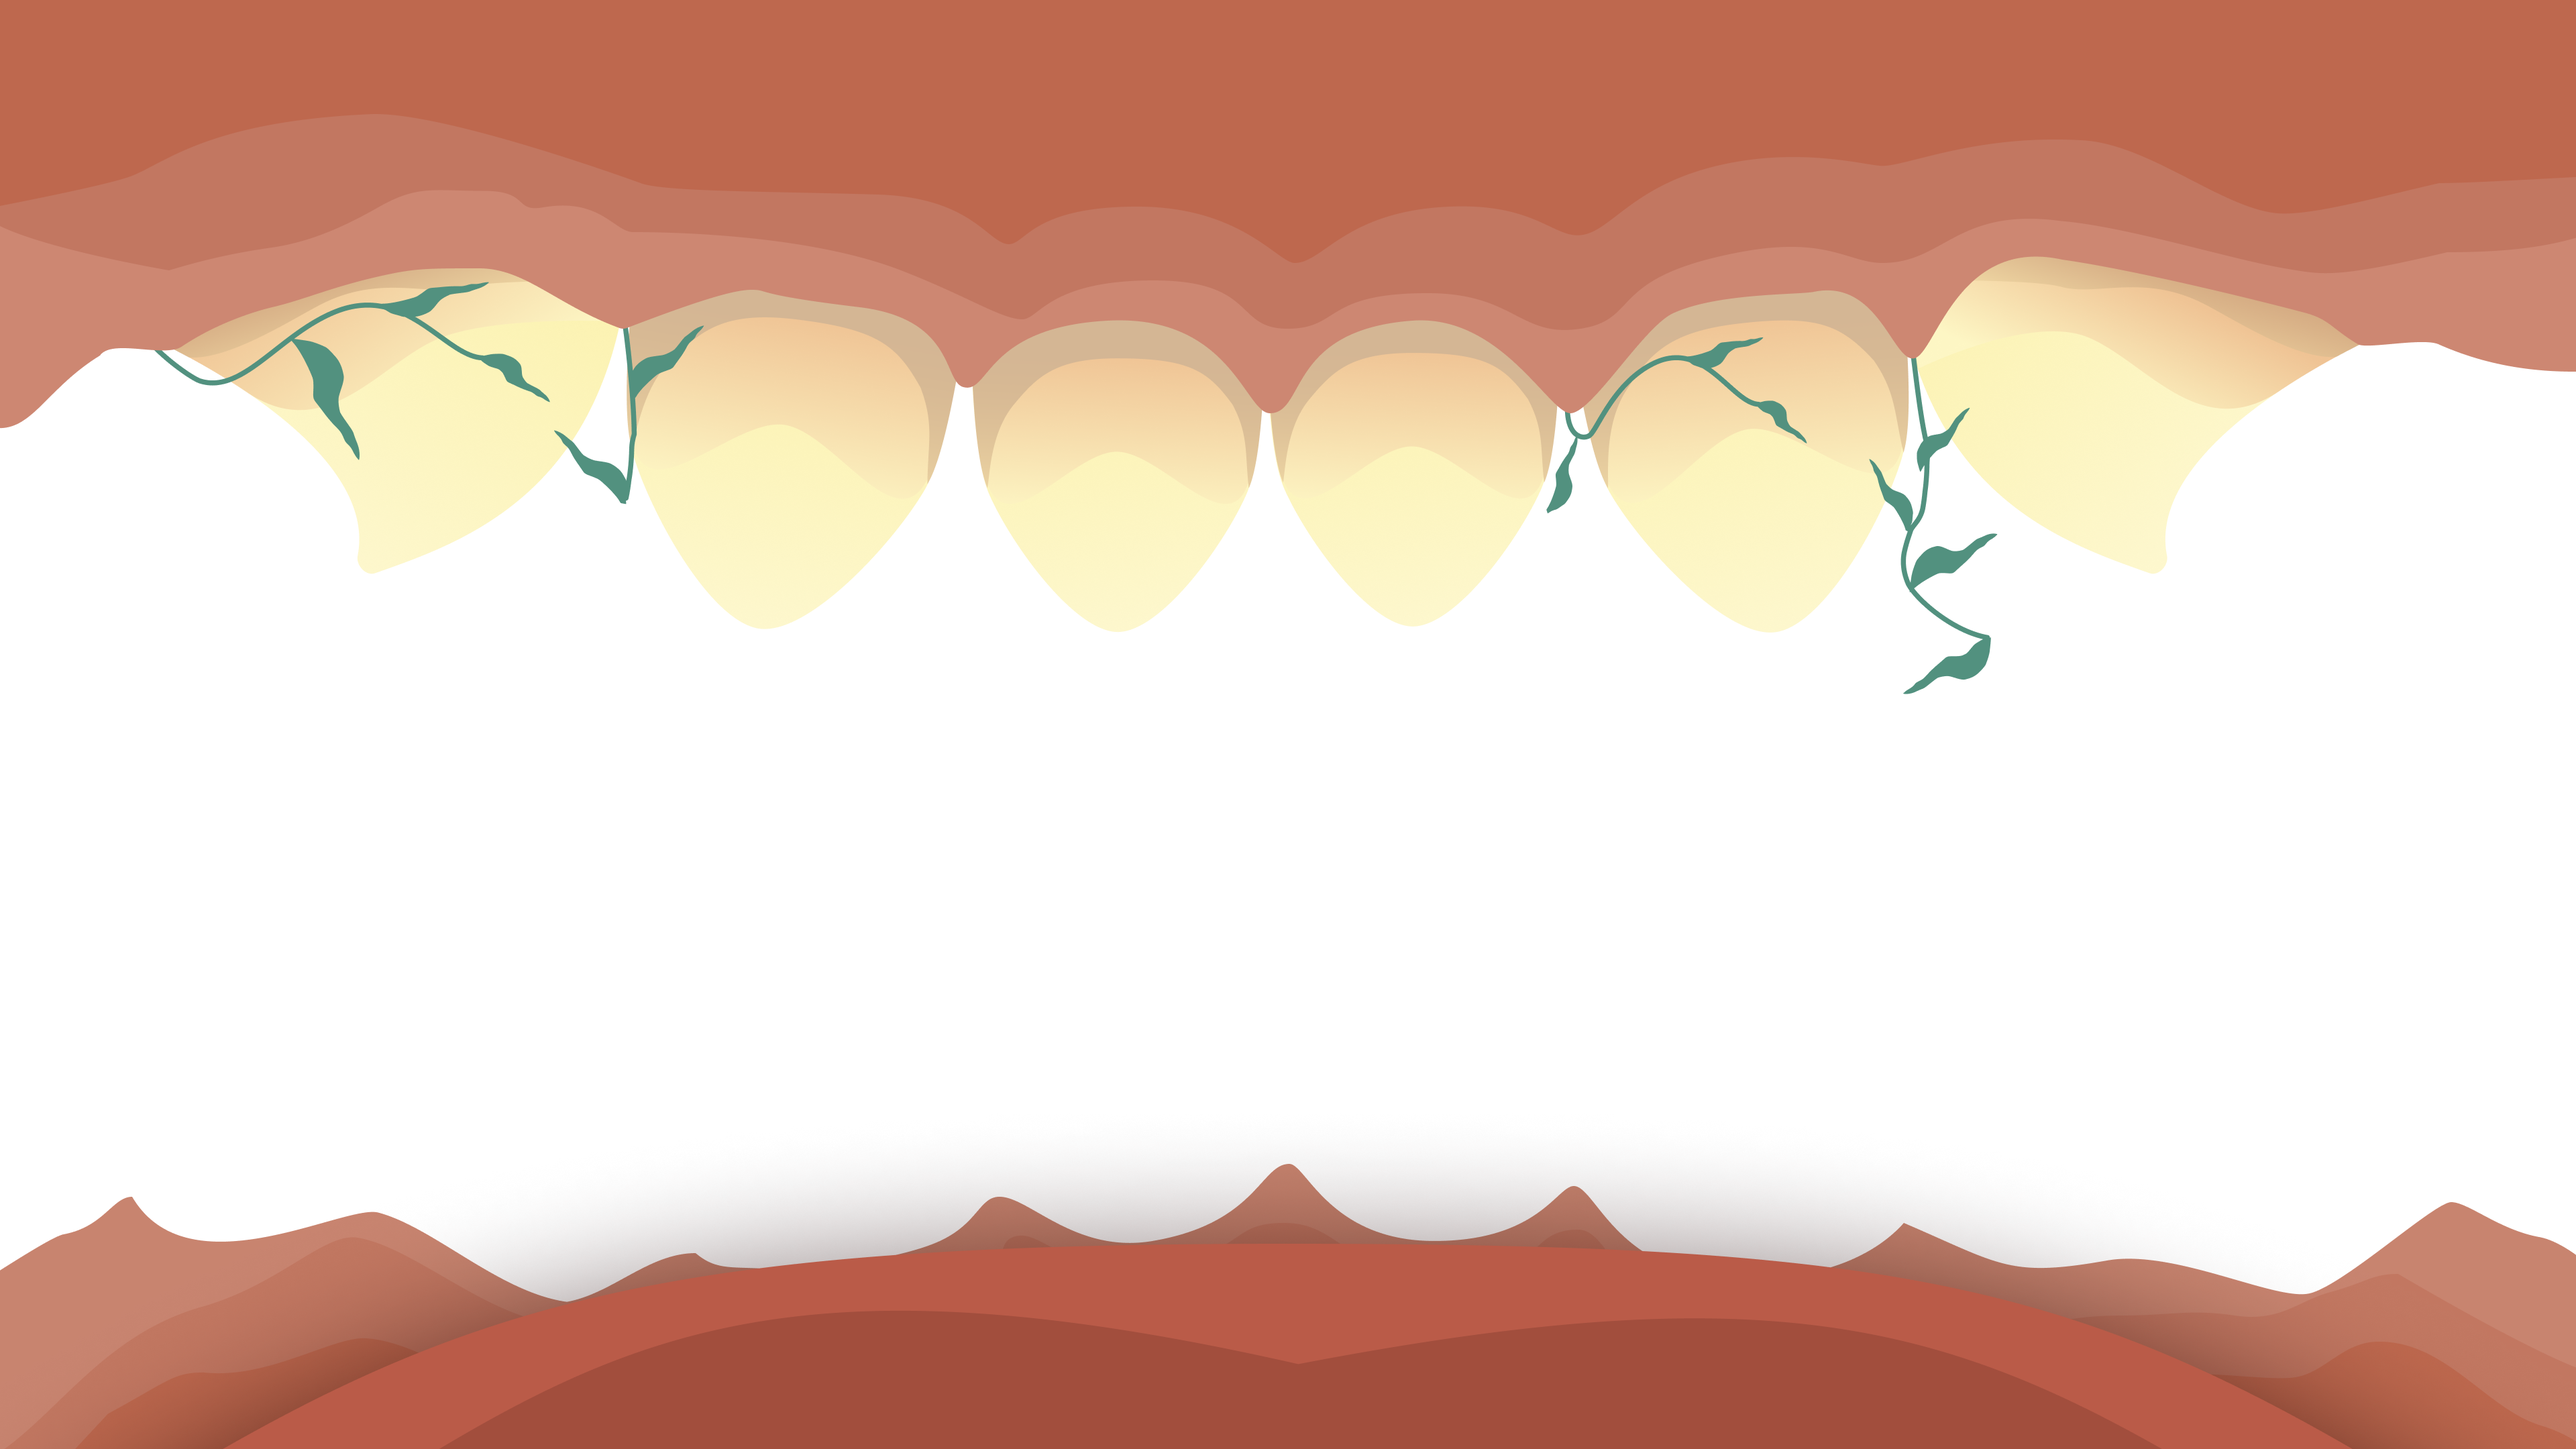
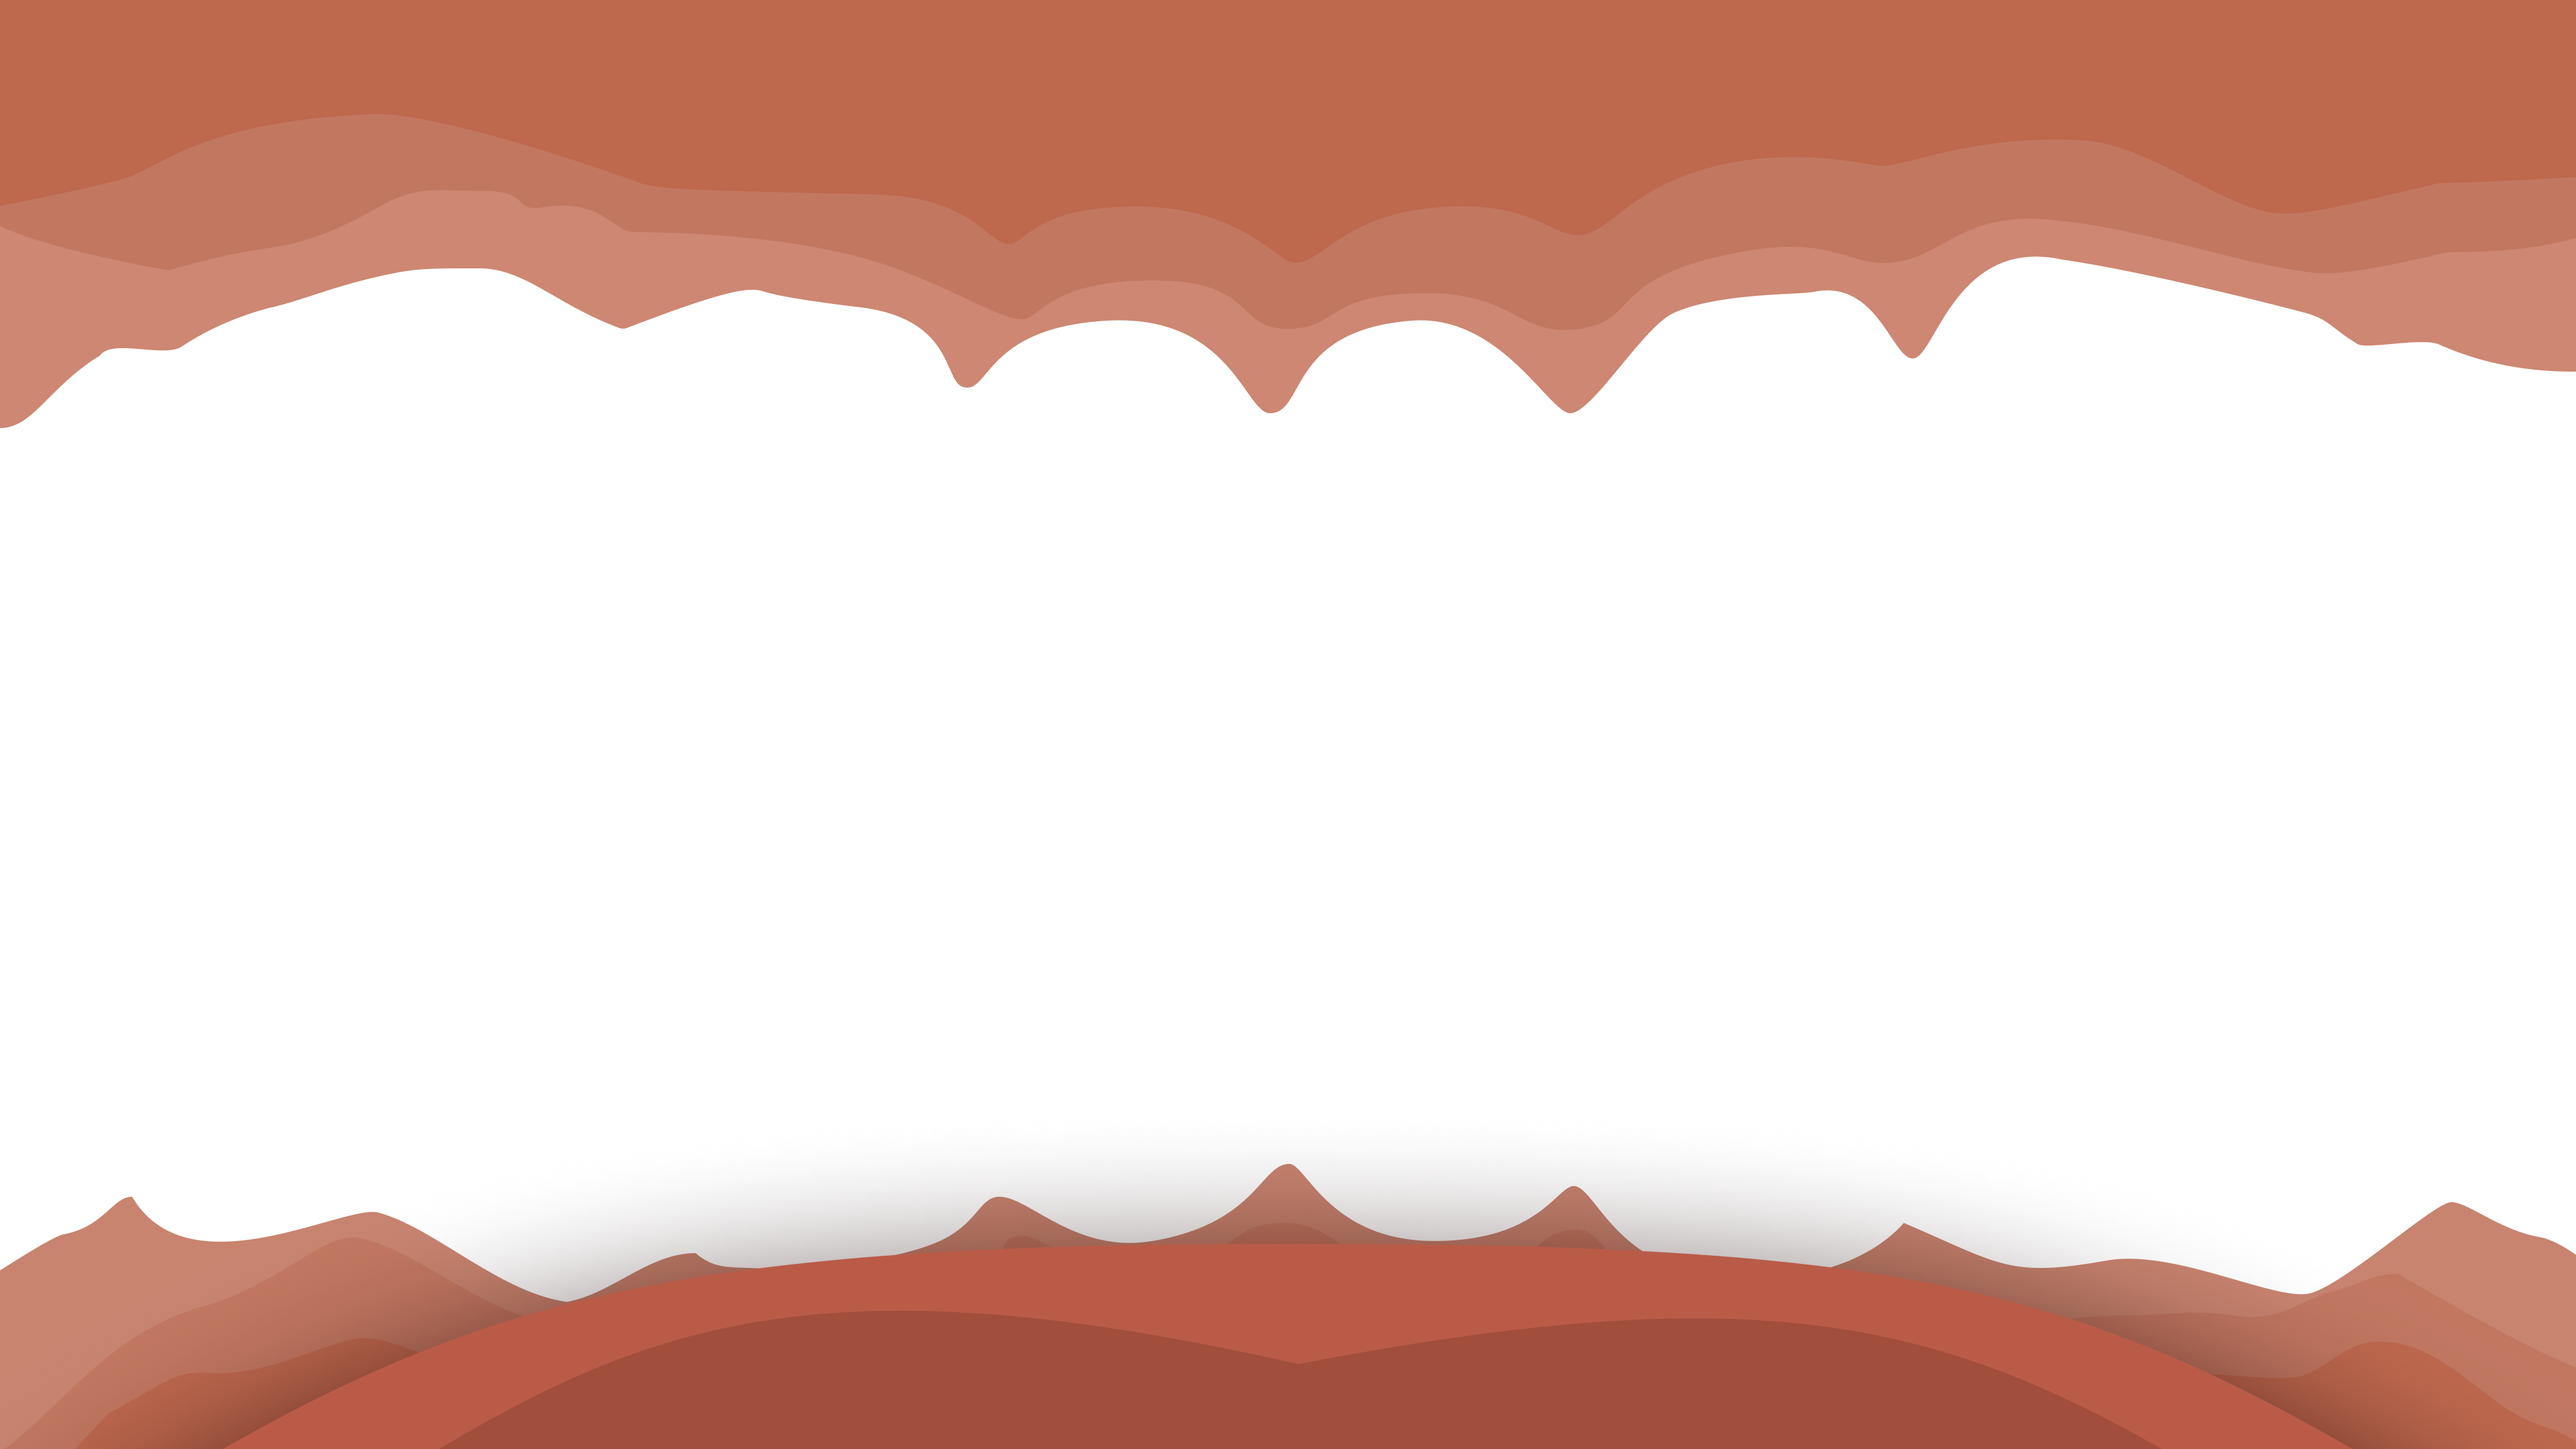
moving top teeth to front, removing ds store

Changed region(s): [[0.0625, 0.1551, 0.9375, 0.4343], [0.75, 0.4343, 0.7812, 0.4653]]

diff --git a/brushing-detector-server/client/game-page.html b/brushing-detector-server/client/game-page.html
@@ -16,6 +16,7 @@
         <source src="game-page-assets/FlossBossScreen.mp4" type="video/mp4">
       </video>
       <img src="game-page-assets/BACKGUMS.png" alt="bottom-gums" id="bottom-gums">
+      <img src="game-page-assets/TOPTEETH.png" alt="top-teeth" id="top-teeth">
       <img src="game-page-assets/FRONTGUMS.png" alt="top-gums" id="top-gums">
       <div id="header">
         <div id="points">

diff --git a/brushing-detector-server/client/game-page.css b/brushing-detector-server/client/game-page.css
@@ -46,6 +46,14 @@ body {
     object-fit: contain;
 }
 
+#top-teeth {
+    width: 100%;
+    height: 100%;
+    position: absolute;
+    z-index: 2;
+    object-fit: contain;
+}
+
 #top-gums {
     width: 100%;
     height: 100%;
